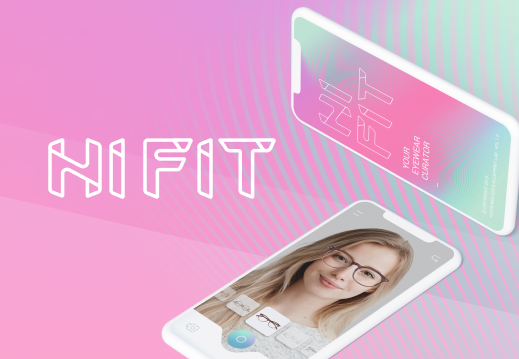
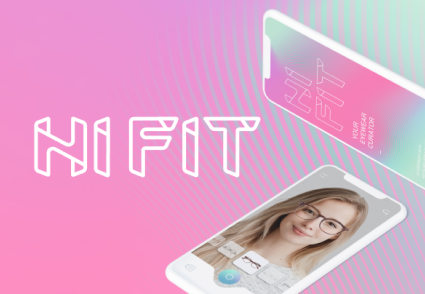
size edit

diff --git a/portfolio/Project/03-Hompage.html b/portfolio/Project/03-Hompage.html
@@ -26,7 +26,7 @@
         </div> <!-- // headerWrap -->
 
         <div id="Contents">
-            <div class="sub_img img_long box_width"><img src="../img/HOMEPAGE_RENEWAL.png"></div>
+            <div class="sub_img img_long box_width"><img src="../img/HOMEPAGE.png"></div>
 		
             <div class="top_Btn">
 				<a href="#header">

diff --git a/portfolio/css/style.css b/portfolio/css/style.css
@@ -12,8 +12,8 @@
 }
 .project_list li a {
 	display: block;  /* span 에 컬러를 주어 블럭처리 */
-	width: 519px;
-	height: 359px;
+	width: 425px;
+	height: 294px;
 	margin-bottom: 27px;
 }
 .project_list li img {}

diff --git a/portfolio/css/common.css b/portfolio/css/common.css
@@ -20,7 +20,7 @@ table {border-collapse: collapse;}
 
 /* layout */
 .box_width {
-	width: 1400px;
+	width: 1200px;
 	margin: 0 auto;
 }
 #wrap {
